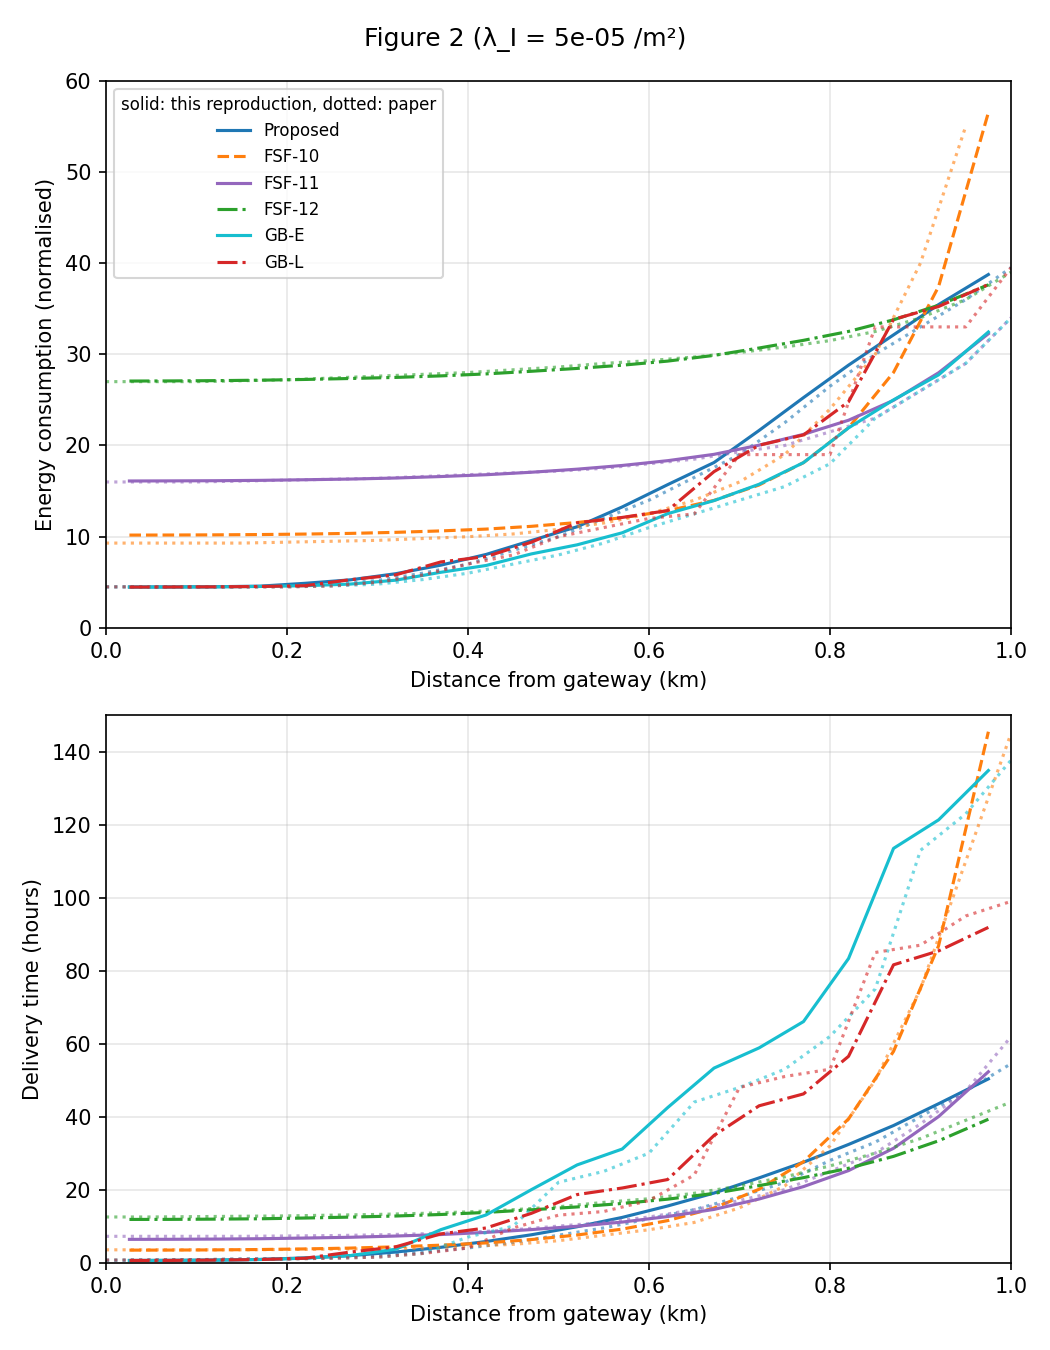
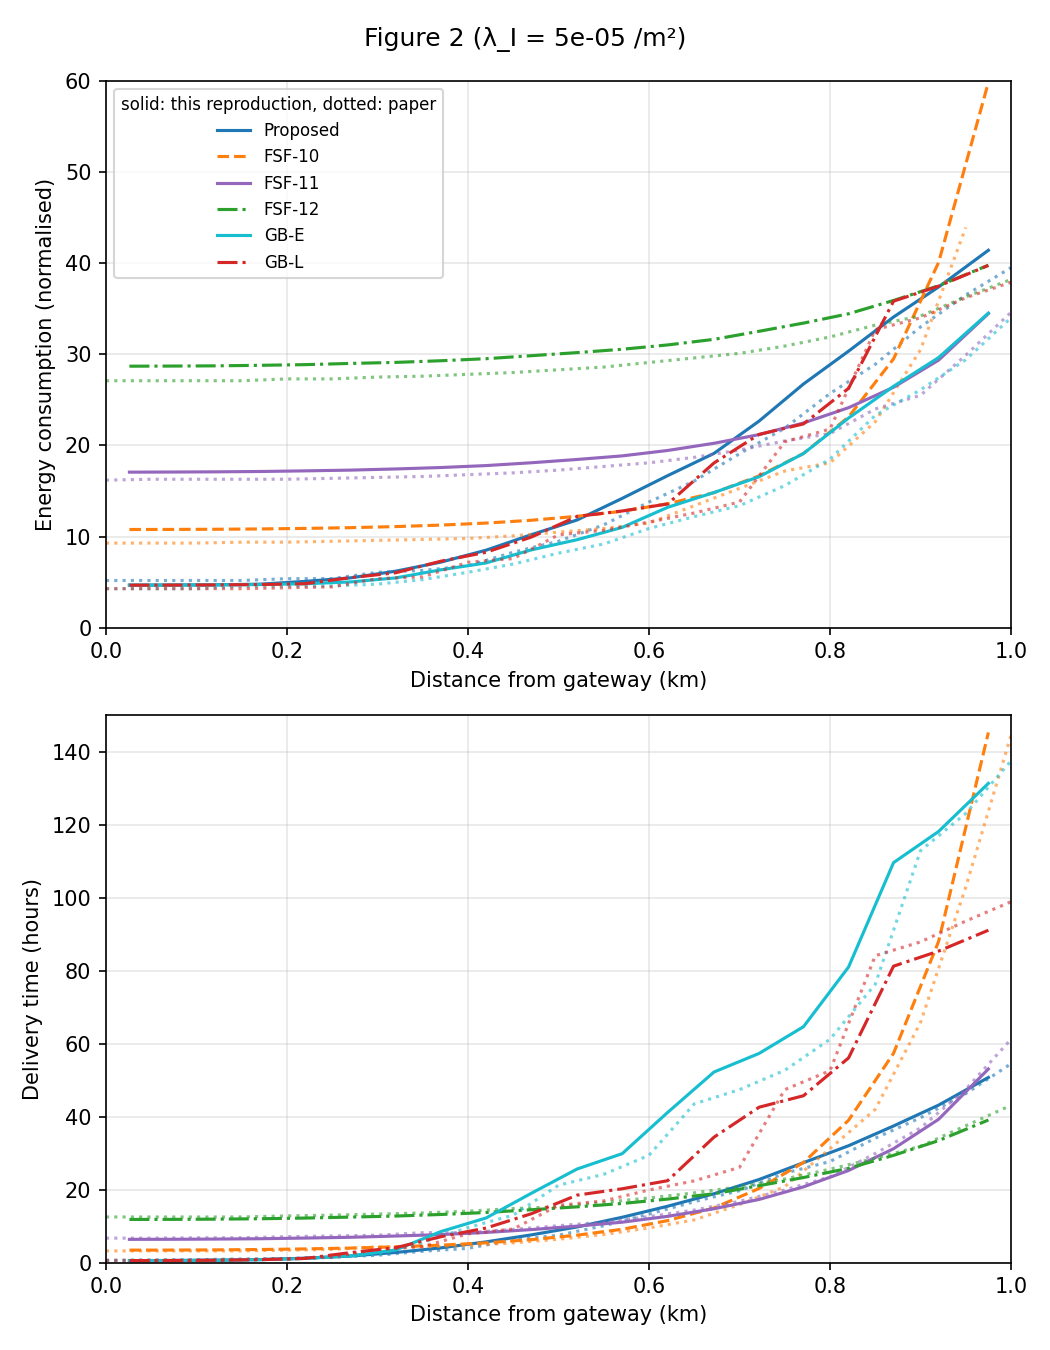
Take more accurate values from paper

Changed region(s): [[0.1219, 0.0622, 0.9752, 0.4356], [0.3048, 0.56, 0.9752, 0.9333], [0.3352, 0.2489, 0.701, 0.28]]

diff --git a/papers/fuota-sequential-sf-2025/paper_values.py b/papers/fuota-sequential-sf-2025/paper_values.py
@@ -38,24 +38,33 @@ CURRENT_TX_MA = 83
 CURRENT_RX_MA = 38
 CURRENT_SLEEP_MA = 0.045
 
-# Figure 2, read at 0.05 km steps from 0 to 1 km: (distance km, EC normalised) and (distance
-# km, DT hours). None where a curve leaves the plotted range.
+# Figure 2 at 0.05 km steps from 0 to 1 km: (distance km, EC normalised) and (distance km, DT
+# hours). None where a curve leaves the plotted range.
+#
+# All six curves were extracted pixel by pixel from a 600 dpi render of the figure (axis frame
+# = [0, 1] km x [0, 60] / [0, 150] h, checked against the grid lines; median row of the pixels
+# of the curve's MATLAB colour per column), gaps between dashes interpolated, the few points
+# where a marker of another curve was picked up replaced by the running maximum (every curve is
+# monotone in distance). Reading precision is about 0.2 units of EC and 0.5 h of DT (the line
+# width). Exceptions read by eye: the proposed scheme's delivery time below 0.35 km, which is
+# hidden under the other curves, and its 1 km value, where the line is clipped by the frame
+# (Table I gives 54.5 h).
 FIG2_DISTANCES = [0.05 * i for i in range(21)]
 FIG2_EC: dict[str, list[float | None]] = {
-    "proposed": [4.5, 4.5, 4.5, 4.5, 4.6, 4.8, 5.2, 6.0, 7.0, 8.5, 10.0, 12.0, 14.0, 16.5, 19.0, 22.5, 26.5, 30.0, 33.0, 36.0, 39.5],
-    "fsf10": [9.3, 9.3, 9.3, 9.3, 9.4, 9.5, 9.6, 9.8, 10.0, 10.3, 10.8, 11.5, 12.5, 14.0, 16.0, 19.0, 24.0, 30.0, 40.0, 55.0, None],
-    "fsf11": [16.0, 16.0, 16.0, 16.1, 16.2, 16.3, 16.4, 16.6, 16.8, 17.0, 17.2, 17.5, 18.0, 18.5, 19.3, 20.0, 21.5, 23.0, 26.0, 29.0, 34.0],
-    "fsf12": [27.0, 27.0, 27.0, 27.1, 27.2, 27.4, 27.6, 27.8, 28.0, 28.3, 28.6, 29.0, 29.3, 29.7, 30.2, 30.8, 31.5, 32.5, 34.0, 36.0, 39.0],
-    "gb_e": [4.5, 4.5, 4.5, 4.5, 4.5, 4.6, 4.8, 5.3, 6.0, 7.0, 8.0, 9.3, 11.0, 12.5, 14.0, 15.5, 18.0, 23.0, 26.0, 29.0, 34.0],
-    "gb_l": [4.5, 4.5, 4.5, 4.5, 4.5, 4.6, 5.0, 5.8, 7.0, 8.0, 10.0, 11.0, 12.0, 12.5, 19.0, 19.0, 19.0, 33.0, 33.0, 33.0, 39.5],
+    "proposed": [5.2, 5.2, 5.2, 5.2, 5.4, 5.4, 6.1, 6.3, 6.8, 8.3, 9.5, 11.3, 13.8, 16.1, 19.1, 21.9, 25.7, 28.9, 33.0, 36.5, 39.5],
+    "fsf10": [9.3, 9.3, 9.3, 9.4, 9.4, 9.5, 9.6, 9.7, 9.8, 10.1, 10.5, 10.9, 11.5, 13.4, 15.3, 17.2, 18.1, 22.6, 30.5, 43.9, None],
+    "fsf11": [16.2, 16.3, 16.3, 16.3, 16.3, 16.4, 16.5, 16.6, 16.8, 17.0, 17.3, 17.7, 18.1, 18.7, 19.5, 20.5, 21.3, 24.0, 25.5, 29.9, 34.6],
+    "fsf12": [27.1, 27.1, 27.1, 27.1, 27.3, 27.3, 27.5, 27.6, 27.8, 28.0, 28.3, 28.6, 29.1, 29.6, 30.1, 30.9, 31.9, 33.2, 34.2, 36.3, 38.2],
+    "gb_e": [4.3, 4.3, 4.3, 4.6, 4.6, 4.6, 4.8, 5.3, 6.1, 7.0, 8.2, 9.2, 10.9, 12.2, 13.4, 15.6, 18.5, 23.3, 26.1, 29.4, 34.0],
+    "gb_l": [4.3, 4.3, 4.3, 4.3, 4.4, 4.5, 5.4, 5.6, 7.2, 7.6, 10.2, 10.7, 11.6, 12.6, 13.8, 20.4, 21.8, 32.7, 34.0, 36.2, 37.9],
 }
-FIG2_DT = {
-    "proposed": [0.6, 0.7, 0.8, 1.0, 1.1, 1.5, 2.0, 2.8, 4.0, 5.5, 7.5, 9.5, 12.0, 14.5, 18.0, 22.0, 28.0, 33.0, 40.0, 47.0, 54.5],
-    "fsf10": [3.5, 3.5, 3.5, 3.5, 3.6, 3.7, 3.8, 4.0, 4.5, 5.0, 6.0, 7.5, 9.0, 11.0, 15.0, 21.0, 32.0, 50.0, 75.0, 110.0, 145.0],
-    "fsf11": [7.2, 7.2, 7.2, 7.2, 7.3, 7.4, 7.6, 7.9, 8.3, 9.0, 10.0, 11.0, 12.5, 14.5, 17.0, 20.0, 25.0, 30.0, 38.0, 47.0, 61.9],
-    "fsf12": [12.5, 12.5, 12.6, 12.7, 12.8, 13.0, 13.2, 13.5, 13.9, 14.5, 15.3, 16.5, 17.5, 19.0, 21.0, 23.5, 26.5, 30.0, 34.0, 39.0, 44.0],
-    "gb_e": [0.7, 0.7, 0.8, 0.9, 1.0, 1.2, 1.5, 2.5, 7.0, 10.0, 22.0, 25.0, 30.0, 44.0, 48.0, 53.0, 62.0, 75.0, 113.0, 123.0, 137.7],
-    "gb_l": [0.7, 0.7, 0.8, 0.9, 1.0, 1.2, 1.5, 2.5, 4.0, 9.5, 13.0, 14.0, 17.0, 24.0, 48.0, 51.0, 53.0, 85.0, 87.0, 95.0, 99.0],
+FIG2_DT: dict[str, list[float | None]] = {
+    "proposed": [0.6, 0.7, 0.8, 1.0, 1.1, 1.5, 2.0, 3.1, 3.9, 6.2, 7.5, 10.1, 13.3, 16.7, 19.7, 24.5, 27.7, 34.1, 39.7, 46.3, 54.5],
+    "fsf10": [3.2, 3.2, 3.2, 3.2, 3.4, 3.6, 4.3, 4.3, 4.7, 5.4, 6.4, 7.7, 9.5, 11.7, 15.9, 20.8, 31.2, 42.0, 65.8, 102.9, 144.5],
+    "fsf11": [6.7, 6.7, 6.8, 6.8, 7.1, 7.3, 7.5, 8.2, 8.2, 9.1, 10.1, 11.1, 12.6, 14.4, 16.8, 19.9, 23.5, 29.9, 36.9, 47.5, 61.2],
+    "fsf12": [12.5, 12.5, 12.5, 12.5, 12.8, 13.0, 13.3, 13.6, 14.1, 14.8, 15.3, 16.5, 17.7, 19.1, 20.8, 22.9, 25.6, 28.6, 31.9, 37.5, 43.1],
+    "gb_e": [0.6, 0.6, 0.6, 0.8, 1.0, 1.5, 2.2, 5.5, 9.6, 13.0, 21.2, 24.2, 29.4, 43.5, 47.4, 52.7, 61.2, 76.3, 112.9, 123.1, 137.5],
+    "gb_l": [0.6, 0.6, 0.6, 0.8, 1.0, 1.5, 3.6, 4.4, 7.9, 9.2, 15.7, 16.9, 19.9, 22.4, 26.1, 47.4, 52.6, 84.1, 87.9, 93.6, 98.9],
 }
 
 # Figure 3: averages over node distances as a function of w (M = 12), read at a few w values.

diff --git a/papers/fuota-sequential-sf-2025/README.md b/papers/fuota-sequential-sf-2025/README.md
@@ -119,10 +119,18 @@ probability under 1%); that realisation is drawn per seed. Two modes:
    `--reference-loss` changes it; `scenario.PAPER_LITERAL_REFERENCE_LOSS_DB` holds the literal
    value.
 2. **Energy normalisation.** The text normalises by `k p_r l_f(7)`, the SF 7 *frame* airtime
-   (0.1027 s). The numbers in Figure 2 and Table II only come out if the normalisation is the
-   SF 7 *payload* airtime without the preamble (0.0902 s): that gives 4.5 at the gateway for
-   the proposed scheme (0.1027 s would give 3.9), 16.1 and 27.0 for FSF-11/12 (vs 14.2 and
-   23.7), and Table II's 11.6 and 26.5. `--normalisation frame` uses the literal definition.
+   of a 50-byte fragment, which by the paper's own equation (3) is 97.5 ms (19.5 s for the
+   image); the *payload* airtime without the preamble is 85.0 ms (17.0 s). The paper's energy
+   levels near the gateway, where every scheme simply receives the image at its SF without
+   losses, pin the constant actually used: with `E_C = 60 s` the FSF-10, FSF-11, FSF-12 and GB
+   values of Figure 2 (9.3, 16.2, 27.1 and 4.3, pixel read) all give `k l = 18.0-18.9 s`, i.e.
+   about 91 ms per fragment, which is neither of the two and cannot be derived from the paper
+   (it is what one gets by counting the PHY header as a separate code block, the error the
+   simulator had until commit 12310d8). `--normalisation payload` (the default) uses 85.0 ms
+   and therefore reports energies about 6% above the paper's for every scheme and distance;
+   `--normalisation frame` uses 97.5 ms and reports about 7% below. Delivery times are not
+   affected. (Before the airtime fix the simulator's 90.2 ms payload airtime happened to match
+   the paper's constant, which is why the earlier results matched its energy scale exactly.)
 3. **Table II and III exclude `E_C`.** Averaging the Figure 2 curves over distance gives
    values 3.3 above Table II for every scheme, and 3.3 is exactly `l_c / (k l_7^(pl))`. So the
    tables report `E(d0)` alone while the figure includes the control overhead;
@@ -162,7 +170,19 @@ probability under 1%); that realisation is drawn per seed. Two modes:
     residual.
 12. **Group completion** in GB is known to the gateway instantly (ideal acknowledgements), and
     the session cap (`--max-hours`, 500 h) only exists to bound pathological runs.
-13. **The paper's interference losses are larger than its model gives.** With the SIR matrix,
+13. **Airtime formula of the simulator.** `simulator/lora/airtime.py` computes the explicit
+    header as a separate code block (`ceil(20 / 4 SF) (CR + 4)` symbols on top of the implicit
+    header payload), whereas the Semtech formula, equation (3) of the paper and every airtime
+    calculator fold the 20 header bits into the single ceiling. The simulator therefore
+    over-counts one code block (5 symbols at CR 4/5) for about half of all payload length and
+    SF combinations, including the paper's 50-byte frames at SF 7 and SF 8 (102.7 and 184.8 ms
+    here against 97.5 and 174.6 ms). For this reproduction the effect on delivery times is
+    0.1-0.2 h (the SF 7 and SF 8 rounds are 2.6 and 5.1 min too long) and on the normalised
+    energy a scale factor of up to 6% at the far end (the normalisation uses the simulator's
+    SF 7 airtime, the SF 9-12 frames are computed correctly). Found on 2026-10-13 while
+    checking the near-gateway energy value and fixed in commit 12310d8; the results below were
+    produced after the fix.
+14. **The paper's interference losses are larger than its model gives.** With the SIR matrix,
     Rayleigh fading and the stated densities, an interferer must be within a few metres of a
     recipient near the gateway to destroy an SF 11 frame, so the model (analytically and in
     both simulation modes) loses well under 1% of the frames there, while Figure 2 implies
@@ -179,29 +199,59 @@ probability under 1%); that realisation is drawn per seed. Two modes:
 All numbers below are from `REPEATS=20` (20 seeds per configuration against the paper's 100
 runs) in the `model` interference mode; `graphs/tables.md` is regenerated by `graphs.py`.
 
-**Figure 2** (`graphs/fig2.png`, solid: this reproduction, dotted: the paper's curves): every
-scheme follows the paper's curve over the whole range in both panels. The analytical squares
-sit on the simulated proposed curve just like in the paper. The visible differences are at the
-edge, where the paper's FSF-11 is a little slower (61.9 h vs 58.7 h) and its GB-E a little
-faster (137.7 h vs 141 h) than here, and near the gateway, where the paper shows 5-10% more
-frame loss for SF 11/12 than its own interference model yields (FSF-11 at 7.2 h where the
-noise-free value is 6.4 h and ours is 6.6 h).
+**Figure 2** (`graphs/fig2.png`, solid: this reproduction, dotted: the paper's curves, all
+six of them pixel-read): every scheme follows the paper's delivery time curve over the whole
+range, with the paper's FSF-11 a little slower at the edge (61.9 h vs 60.9 h) and its GB-E a
+little faster (137.7 h vs 139.4 h) than here. The energy curves have the paper's shape but sit
+a uniform 6% above it because of the normalisation constant (gap 2); with the frame airtime
+as normalisation they would sit 7% below. The analytical squares sit on the simulated proposed
+curve just like in the paper.
+
+**Proposed scheme in detail** (`graphs/fig2_proposed.png`). Delivery time in hours and
+normalised energy (payload normalisation, with `E_C`), simulation = mean of the nodes within
+25 m of the distance over 20 seeds, paper = pixel read (0.5 h / 0.2 units):
+
+| km | 0.3 | 0.4 | 0.5 | 0.6 | 0.7 | 0.8 | 0.9 | 1.0 |
+| :-- | --: | --: | --: | --: | --: | --: | --: | --: |
+| DT paper | 2.0 | 3.9 | 7.5 | 13.3 | 19.7 | 27.7 | 39.7 | 54.5 (Table I) |
+| DT this reproduction | 2.3 | 5.0 | 8.8 | 14.1 | 20.7 | 30.2 | 40.9 | 53.1 |
+| EC paper | 6.1 | 6.8 | 9.5 | 13.8 | 19.1 | 25.7 | 33.0 | 39.5 |
+| EC this reproduction | 5.8 | 7.9 | 11.1 | 15.7 | 20.7 | 28.9 | 36.1 | 42.5 |
+
+The delivery time is 1-2.5 h (5-10%) above the paper between 0.4 and 0.8 km and matches at
+the edge. A node there decodes early in the SF 11 or SF 12 round, so its delivery time is set
+by how many fragments it collected during the SF 9 and SF 10 rounds, i.e. by the fading margin
+at those SFs at 600-800 m. That margin follows from the link budget constant the paper does
+not give usably (gap 1), which was fitted to the edge delivery time and the Table II averages,
+and from the sensitivity table. The analytical model shows how sensitive the middle of the
+curve is to that one constant: 0.5 dB more or less reference loss moves the 0.7 km delivery
+time by about 3 h (18.6 / 21.1 / 24.1 h for 76.5 / 77.0 / 77.5 dB) and the 1 km time by 7 h.
+The residual is therefore equivalent to about 0.25 dB in the link budget, or to the SF 9 and
+SF 10 sensitivities being 0.25 dB better relative to SF 12 than Georgiou & Raza's table, well
+inside what the paper specifies. It does not affect the conclusions drawn from the
+reproduction: the shape of both curves, the distance at which each SF stops reaching, the
+ordering of the schemes and the distance averages of Table II are all reproduced, and in a
+comparison between protocols on this simulator every protocol sees the same link budget, so a
+shift in it moves all of them together. The energy curve is the delivery time curve times the
+frame airtime per attempt, so it carries the same residual plus the 6% normalisation offset.
 
 **Table II**, averaged over the 100 node distances (EC without `E_C` / DT in hours):
 
 | | Proposed | FSF-10 | FSF-11 | FSF-12 | GB-E | GB-L |
 | :-- | --: | --: | --: | --: | --: | --: |
-| This reproduction | 11.9 / 15.4 | 13.7 / 24.5 | 16.1 / 15.8 | 26.3 / 18.6 | 8.9 / 40.4 | 11.2 / 28.0 |
+| This reproduction | 12.6 / 15.3 | 14.5 / 24.5 | 17.0 / 15.8 | 27.9 / 18.6 | 9.4 / 39.2 | 11.8 / 27.8 |
 | Paper | 11.6 / 15.3 | 13.4 / 24.2 | 16.3 / 17.0 | 26.5 / 19.5 | 8.7 / 36.4 | 10.7 / 28.3 |
 
-The ranking and the trade-off the paper argues for come out the same: the proposed scheme has
-the lowest delivery time of all and an energy consumption between the FSF and GB schemes.
+The delivery times agree to within 7% for all but GB-E (8% slower here), the energies are a
+uniform 4-8% above the paper (gap 2), and the ranking and the trade-off the paper argues for
+come out the same: the proposed scheme has the lowest delivery time of all and an energy
+consumption between the FSF and GB schemes.
 
 **Table I**, delivery times at the edge and at R0/4 (hours):
 
 | | Prop. edge | FSF-11 edge | GB-E edge | Prop. R0/4 | FSF-11 R0/4 | GB-E R0/4 |
 | :-- | --: | --: | --: | --: | --: | --: |
-| This reproduction | 54.0 | 58.7 | 141.1 | 1.6 | 6.8 | 1.6 |
+| This reproduction | 53.8 | 60.9 | 139.4 | 1.5 | 6.8 | 1.5 |
 | Paper | 54.5 | 61.9 | 137.7 | 1.44 | 7.18 | 1.41 |
 
 The battery lifetimes of Table I could **not** be reproduced from equation (21) with the
@@ -210,31 +260,31 @@ one update per month). The uplink transmissions alone cost 863 mAh per year at S
 of airtime at 83 mA), which caps the lifetime at 1.39 years before any reception or sleep
 current, yet the paper reports 1.42-1.47 years at the edge; at R0/4 the same formula gives
 2.5-2.7 years where the paper has 1.66-1.82. `graphs.py` prints equation (21) as written
-(0.89 / 0.90 / 0.90 and 2.68 / 2.54 / 2.69 years); the relative ordering of the three schemes
+(0.89 / 0.90 / 0.90 and 2.70 / 2.55 / 2.70 years); the relative ordering of the three schemes
 matches the paper, the absolute values do not.
 
 **Table III**, other interferer densities (EC without `E_C` / DT in hours):
 
 | λ_I | Prop. | FSF-11 | GB-L | Prop. paper | FSF-11 paper | GB-L paper |
 | :-- | --: | --: | --: | --: | --: | --: |
-| 0.0005 | 12.4 / 16.1 | 16.4 / 16.3 | 11.3 / 28.8 | 13.69 / 18.85 | 18.02 / 21.78 | 12.78 / 32.17 |
-| 0.001 | 13.1 / 16.9 | 16.7 / 16.8 | 11.4 / 29.6 | 14.50 / 20.04 | 18.45 / 22.57 | 12.90 / 34.21 |
-| 0.002 | 14.5 / 18.9 | 17.5 / 18.0 | 11.4 / 30.0 | 16.35 / 22.83 | 19.33 / 24.24 | 13.51 / 36.02 |
+| 0.0005 | 13.2 / 16.0 | 17.4 / 16.3 | 11.9 / 28.7 | 13.69 / 18.85 | 18.02 / 21.78 | 12.78 / 32.17 |
+| 0.001 | 13.8 / 16.7 | 17.7 / 16.8 | 12.1 / 29.4 | 14.50 / 20.04 | 18.45 / 22.57 | 12.90 / 34.21 |
+| 0.002 | 15.2 / 18.6 | 18.5 / 17.9 | 12.1 / 29.8 | 16.35 / 22.83 | 19.33 / 24.24 | 13.51 / 36.02 |
 
 The trends agree (every scheme gets worse with density, the proposed scheme stays fastest and
 GB-L cheapest) but the paper is 2-4 times as sensitive to the interferers as the model
 implemented here: going from 5·10⁻⁵ to 5·10⁻⁴ devices/m² costs the proposed scheme 2.1
-normalised units and 3.5 h in the paper against 0.5 and 0.7 h here. This is the same residual
-as the extra near-gateway losses in Figure 2 and the one open point of this reproduction, see
-gap 13.
+normalised units and 3.5 h in the paper against 0.6 and 0.7 h here. This is the one open
+point of this reproduction, see gap 14.
 
-**Figure 3** (`graphs/fig3.png`): the energy curves reproduce the paper's shape, levels and
-ordering (lower L is cheaper for every w, the curves flatten beyond w ≈ 400 at 10.7-11.3 for
-L ≤ 9). The delivery time curves are convex with their minima at the same w (100-200 for
-L = 7-9, 250-350 for L = 10) and the same 14.2-14.5 h floor; the L = 11 curve is the one that
-differs, with its minimum at w ≈ 400 and 15.2 h here against w ≈ 500 and 16.0 h in the paper,
-and the rise beyond the minimum is a little steeper here for L = 7-9 (21.9 h vs 21.8 h at
-w = 1000 for L = 7, but 18.6 h vs 18.1 h for L = 9).
+**Figure 3** (`graphs/fig3.png`): the energy curves reproduce the paper's shape and ordering
+(lower L is cheaper for every w, the curves flatten beyond w ≈ 400) at the 6% higher level of
+gap 2 (11.7-11.9 against 10.7-10.9 for L ≤ 9 at w = 800). The delivery time curves are convex
+with their minima at the same w (100-200 for L = 7-9, 250-350 for L = 10) and the same
+14.2-14.5 h floor; the L = 11 curve is the one that differs, with its minimum at w ≈ 400 and
+15.2 h here against w ≈ 500 and 16.0 h in the paper, and the rise beyond the minimum is a
+little steeper here for L = 7-9 (21.9 h vs 21.8 h at w = 1000 for L = 7, but 18.6 h vs
+18.1 h for L = 9).
 
 **Interference modes.** On a 20-recipient session (seed 1) the `simulated` mode with 1170
 real interferer radios and 404k interfering frames gave a mean EC of 16.5 and DT of 17.3 h

diff --git a/papers/fuota-sequential-sf-2025/graphs/tables.md b/papers/fuota-sequential-sf-2025/graphs/tables.md
@@ -2,18 +2,18 @@
 
 | | Prop. edge | FSF-11 edge | GB-E edge | Prop. R/4 | FSF-11 R/4 | GB-E R/4 |
 | :-- | --: | --: | --: | --: | --: | --: |
-| LT, this reproduction | 0.89 | 0.90 | 0.90 | 2.68 | 2.54 | 2.69 |
+| LT, this reproduction | 0.89 | 0.90 | 0.90 | 2.70 | 2.55 | 2.70 |
 | LT, paper | 1.42 | 1.47 | 1.47 | 1.82 | 1.66 | 1.82 |
-| DT, this reproduction | 54.0 | 58.7 | 141.1 | 1.6 | 6.8 | 1.6 |
+| DT, this reproduction | 53.8 | 60.9 | 139.4 | 1.5 | 6.8 | 1.5 |
 | DT, paper | 54.5 | 61.9 | 137.7 | 1.4 | 7.2 | 1.4 |
 
 ### Table II: EC (normalised, without E_C) and DT (hours) averaged over node distances
 
 | | Proposed | FSF-10 | FSF-11 | FSF-12 | GB-E | GB-L |
 | :-- | --: | --: | --: | --: | --: | --: |
-| EC, this reproduction | 11.9 | 13.7 | 16.1 | 26.3 | 8.9 | 11.2 |
+| EC, this reproduction | 12.6 | 14.5 | 17.0 | 27.9 | 9.4 | 11.8 |
 | EC, paper | 11.6 | 13.4 | 16.3 | 26.5 | 8.7 | 10.7 |
-| DT, this reproduction | 15.4 | 24.5 | 15.8 | 18.6 | 40.4 | 28.0 |
+| DT, this reproduction | 15.3 | 24.5 | 15.8 | 18.6 | 39.2 | 27.8 |
 | DT, paper | 15.3 | 24.2 | 17.0 | 19.5 | 36.4 | 28.3 |
 | runs | 20 | 20 | 20 | 20 | 20 | 20 |
 
@@ -21,6 +21,6 @@
 
 | λ_I | Prop. | FSF-11 | GB-L | Prop. paper | FSF-11 paper | GB-L paper |
 | :-- | --: | --: | --: | --: | --: | --: |
-| 0.0005 | 12.44 / 16.06 | 16.38 / 16.26 | 11.27 / 28.80 | 13.69 / 18.85 | 18.02 / 21.78 | 12.78 / 32.17 |
-| 0.001 | 13.05 / 16.88 | 16.74 / 16.84 | 11.37 / 29.61 | 14.50 / 20.04 | 18.45 / 22.57 | 12.90 / 34.21 |
-| 0.002 | 14.48 / 18.86 | 17.47 / 18.02 | 11.44 / 30.01 | 16.35 / 22.83 | 19.33 / 24.24 | 13.51 / 36.02 |
+| 0.0005 | 13.16 / 15.96 | 17.36 / 16.25 | 11.87 / 28.74 | 13.69 / 18.85 | 18.02 / 21.78 | 12.78 / 32.17 |
+| 0.001 | 13.77 / 16.69 | 17.73 / 16.79 | 12.05 / 29.40 | 14.50 / 20.04 | 18.45 / 22.57 | 12.90 / 34.21 |
+| 0.002 | 15.24 / 18.56 | 18.48 / 17.91 | 12.06 / 29.80 | 16.35 / 22.83 | 19.33 / 24.24 | 13.51 / 36.02 |
